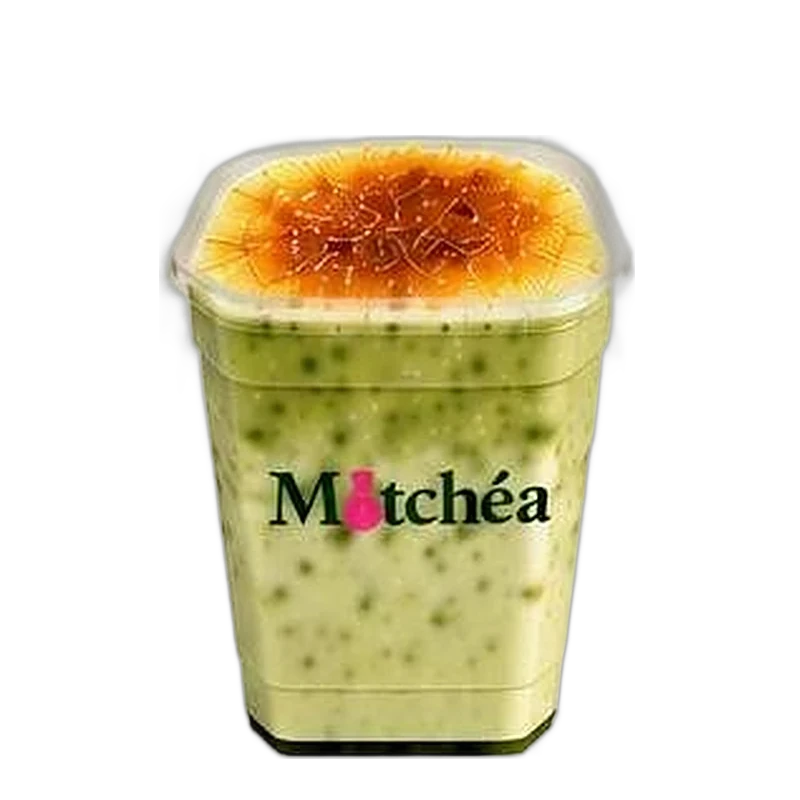
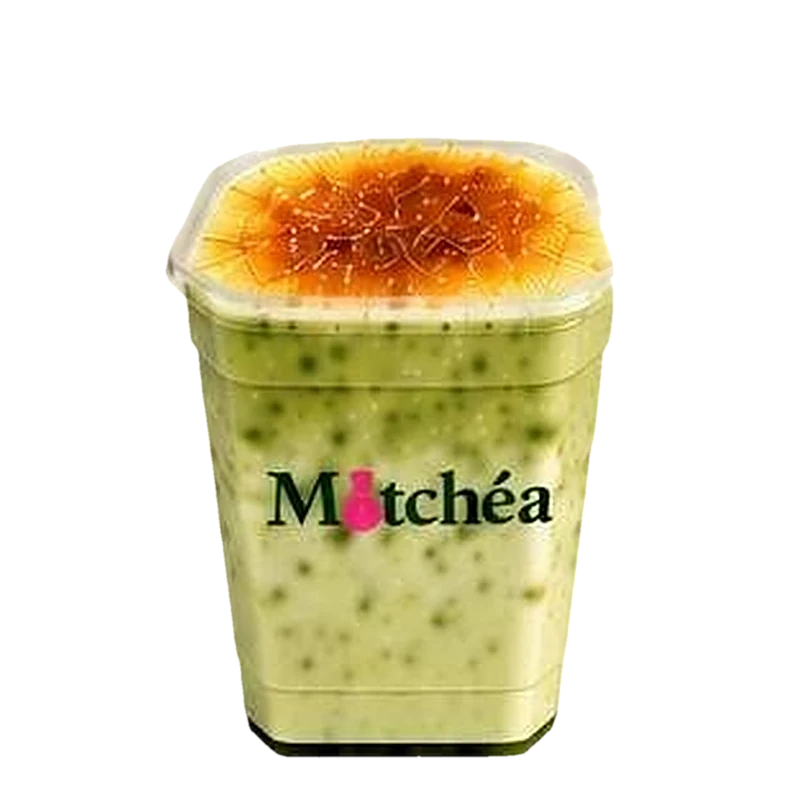
Customizer: crisp cup edges (no glow), extra matcha stays in the cup, gap between close and share

diff --git a/src/shop/sheetfx.css b/src/shop/sheetfx.css
@@ -50,6 +50,15 @@
 .shop .hfx-tint.honey-level i::before{content:"";position:absolute;left:-20%;right:-20%;top:-7px;height:9px;
   background:radial-gradient(12px 7px at 12px 8px,rgba(240,186,80,.5) 98%,transparent 100%) 0 0/24px 9px repeat-x;animation:honeyWave 3.2s linear infinite}
 @keyframes honeyWave{to{transform:translateX(24px)}}
+/* extra matcha stays in the cup: a deeper green settles from the top and remains while the add-on is on */
+.shop .hfx-tint.matcha-level{z-index:1}
+.shop .hfx-tint.matcha-level i{top:calc(var(--top0) + (var(--base0) - var(--top0)) * .1);height:calc((var(--base0) - var(--top0)) * .6);opacity:0;transform:scaleY(0);transform-origin:50% 0;
+  background:linear-gradient(180deg,rgba(62,112,34,0),rgba(62,112,34,.48) 22%,rgba(96,150,58,.32) 60%,rgba(110,160,70,0));
+  transition:transform 1.4s cubic-bezier(.22,1,.36,1) .5s,opacity .6s ease .45s}
+.shop .hfx-tint.matcha-level.on i{opacity:1;transform:scaleY(1)}
+/* while it is on, the add animation fades its own green into the green that stays */
+.shop .hfx-tint.t-matcha i{animation-name:hfxSinkStay}
+@keyframes hfxSinkStay{0%{transform:scaleY(0);opacity:1}45%{transform:scaleY(1);opacity:1}100%{transform:scaleY(1);opacity:0}}
 .shop .hfx-tint.t-matcha i,.shop .hfx-tint.t-gold i{top:var(--top0);height:calc((var(--base0) - var(--top0)) * .55);transform-origin:50% 0;animation:hfxSink 2.3s var(--ease) .55s both}
 .shop .hfx-tint.t-matcha i{background:linear-gradient(180deg,rgba(70,120,40,.55),rgba(110,160,70,.35) 65%,rgba(110,160,70,0))}
 .shop .hfx-tint.t-gold i{background:linear-gradient(180deg,rgba(214,150,40,.45),rgba(214,150,40,0))}
@@ -126,6 +135,7 @@
   .shop .hfx-tint{mix-blend-mode:normal}
   .shop .hfx-tint.honey-level i{background:linear-gradient(0deg,rgba(214,150,40,.42),rgba(240,190,90,.28) 75%,rgba(240,190,90,.12))}
   .shop .hfx-tint.t-matcha i{background:linear-gradient(180deg,rgba(60,105,35,.5),rgba(60,105,35,0))}
+  .shop .hfx-tint.matcha-level i{background:linear-gradient(180deg,rgba(60,105,35,0),rgba(60,105,35,.45) 22%,rgba(60,105,35,.25) 60%,rgba(60,105,35,0))}
   .shop .hfx-tint.t-fade i{background:rgba(10,14,8,.35)}
   .shop .hfx-label{background:rgba(24,30,20,.92);color:#E8F1E0;box-shadow:0 0 0 1px rgba(255,255,255,.12),0 14px 28px -14px rgba(0,0,0,.8)}
   .shop .hfx-label.k-size{background:#C9E3B0;color:#10200B}
@@ -140,7 +150,7 @@
 }
 @media (prefers-reduced-motion:reduce){
   .shop .hfx-tint.honey-level i::before{animation:none}
-  .shop .hfx-tint.honey-level i{transition:none}
+  .shop .hfx-tint.honey-level i,.shop .hfx-tint.matcha-level i{transition:none}
   .shop .lc-wave,.shop .lc-bubbles b,.shop .s7-size.on svg,.shop .s7-sw.on .s7-sw-cup,.shop .s7-sw.on .s7-sw-cup i,.shop .s7-addon.on .s7-check{animation:none}
 }
 

diff --git a/src/shop/MenuPage.jsx b/src/shop/MenuPage.jsx
@@ -11,6 +11,8 @@ import { ShareDrink } from './share';
 import './sheetfx.css';
 import './sheet8.css';
 
+const MATCHA_ADD = /matcha|shot/i; // add-ons that make the drink more matcha
+
 // Keep the picked category chip in view (centered) on phones
 const slideInto = (b) => { const nav = b.parentElement; nav.scrollTo?.({ left: b.offsetLeft - (nav.clientWidth - b.offsetWidth) / 2, behavior: 'smooth' }); };
 
@@ -205,7 +207,7 @@ export function ItemSheet({ item, menu, initial, onClose, onSave, onFavorite, wh
     } else if (p.addonIds) {
       const added = p.addonIds.find((id) => !L.addonIds.includes(id)), gone = L.addonIds.find((id) => !p.addonIds.includes(id));
       const a = addons.find((o) => o._id === (added || gone));
-      if (a) f = { kind: added ? 'add' : 'remove', matcha: /matcha|shot/i.test(a.label), label: `${added ? '+' : '−'} ${a.label}` };
+      if (a) f = { kind: added ? 'add' : 'remove', matcha: MATCHA_ADD.test(a.label), label: `${added ? '+' : '−'} ${a.label}` };
     }
     if (f) setFx((old) => ({ ...f, n: (old?.n || 0) + 1, spot: cupSpot(p.sizeId !== undefined ? menu.sizes.findIndex((s) => s._id === p.sizeId) : sizeAt) }));
   };
@@ -272,6 +274,7 @@ export function ItemSheet({ item, menu, initial, onClose, onSave, onFavorite, wh
           <span className="s8-floor" aria-hidden="true" />
           {item.image && <img ref={hero} src={item.image} alt="" />}
           {item.sweet && <HoneyLevel img={hero} level={sweetPct(L.sweet)} spot={spot0} />}
+          <HoneyLevel kind="matcha" img={hero} level={picked.some((a) => MATCHA_ADD.test(a.label)) ? 100 : 0} spot={spot0} />
           {fx && <CupTint key={`t${fx.n}`} fx={fx} img={hero} />}
           {fx && <HeroFx key={fx.n} {...fx} />}
           <div className="s8-recipe" aria-label="Your drink">

diff --git a/src/shop/art.jsx b/src/shop/art.jsx
@@ -199,8 +199,9 @@ export function CupTint({ fx, img }) {
 }
 
 /** The sweetness you chose, shown as honey sitting in the bottom of the cup photo.
- *  It stays there and glides up or down to the new level (it never starts again from empty). */
-export function HoneyLevel({ img, level, spot }) {
+ *  It stays there and glides up or down to the new level (it never starts again from empty).
+ *  kind="matcha": the extra matcha you added stays as a deeper green in the top of the cup. */
+export function HoneyLevel({ img, level, spot, kind = 'honey' }) {
   const box = useRef(null);
   useLayoutEffect(() => {
     const fit = () => {
@@ -218,7 +219,7 @@ export function HoneyLevel({ img, level, spot }) {
     return () => { el?.removeEventListener('load', fit); window.removeEventListener('resize', fit); };
   }, [img, spot]);
   if (level == null || !spot) return null;
-  return <span ref={box} className={`hfx-tint honey-level ${level > 0 ? 'on' : ''}`} style={{ ...spot, '--lv': level / 100 }} aria-hidden="true"><i /></span>;
+  return <span ref={box} className={`hfx-tint ${kind}-level ${level > 0 ? 'on' : ''}`} style={{ ...spot, '--lv': level / 100 }} aria-hidden="true"><i /></span>;
 }
 
 /** Profile picture with the first letter underneath, so it never shows as an empty circle if the photo can't load. */

diff --git a/src/shop/shop-v7.css b/src/shop/shop-v7.css
@@ -109,7 +109,8 @@
   .shop .sheet7 .sheet-hero img{object-fit:contain;padding:40px 18px 30px}
   .shop .sheet7 .sheet-b{grid-column:2;overflow-y:auto;padding:30px 30px 14px}
   .shop .sheet7 .sheet-f{grid-column:2;padding:16px 30px 20px}
-  .shop .sheet7 .sheet-x{right:16px;top:16px}
+  .shop .sheet7 .sheet-x{right:18px;top:31px}
+  .shop .sheet7 .s7-icons{margin-right:50px} /* room for the close button, so it never touches Share */
 }
 
 /* ---------- CHECKOUT ---------- */
